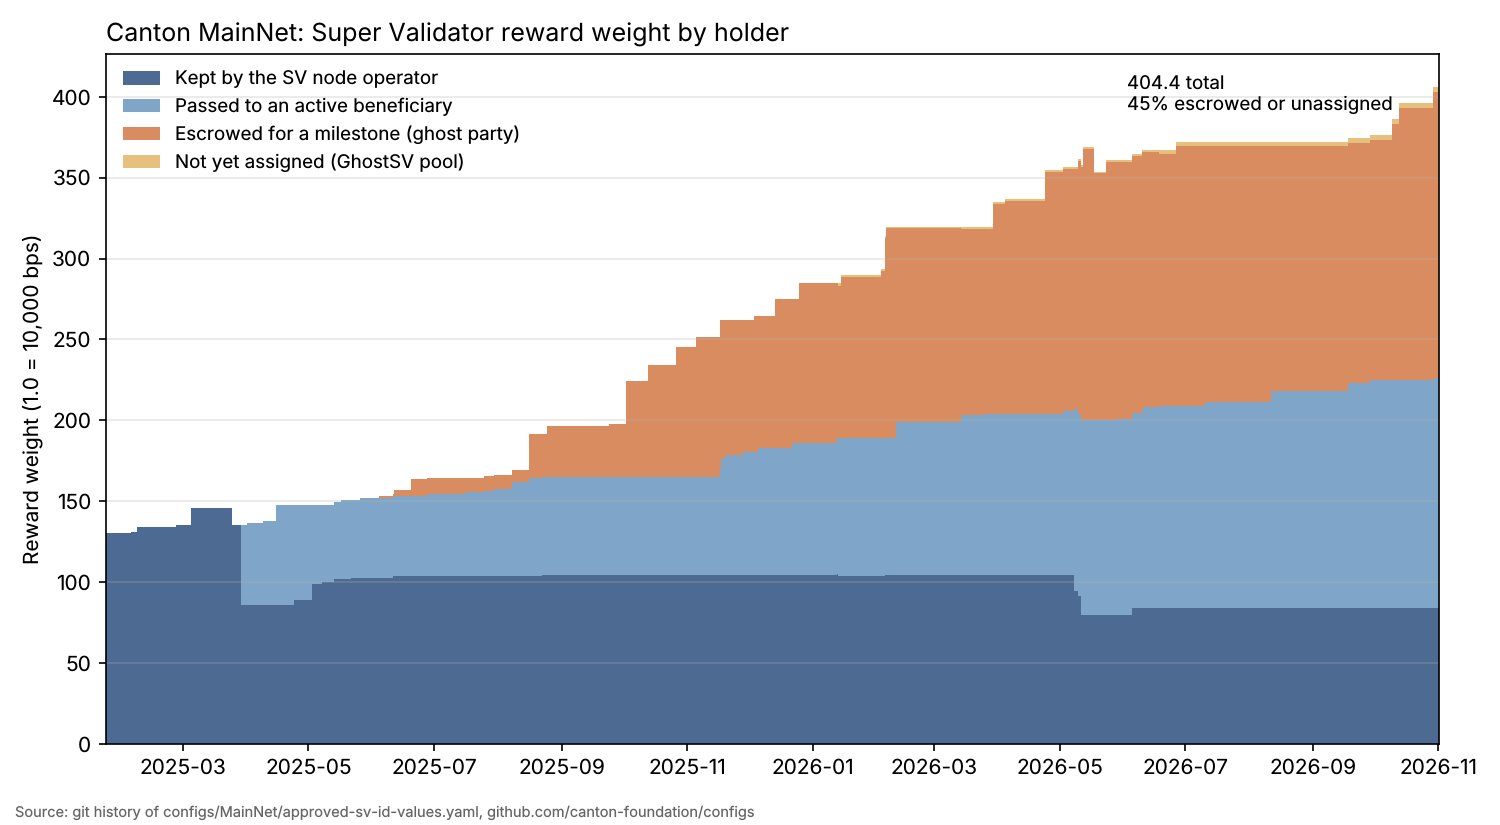
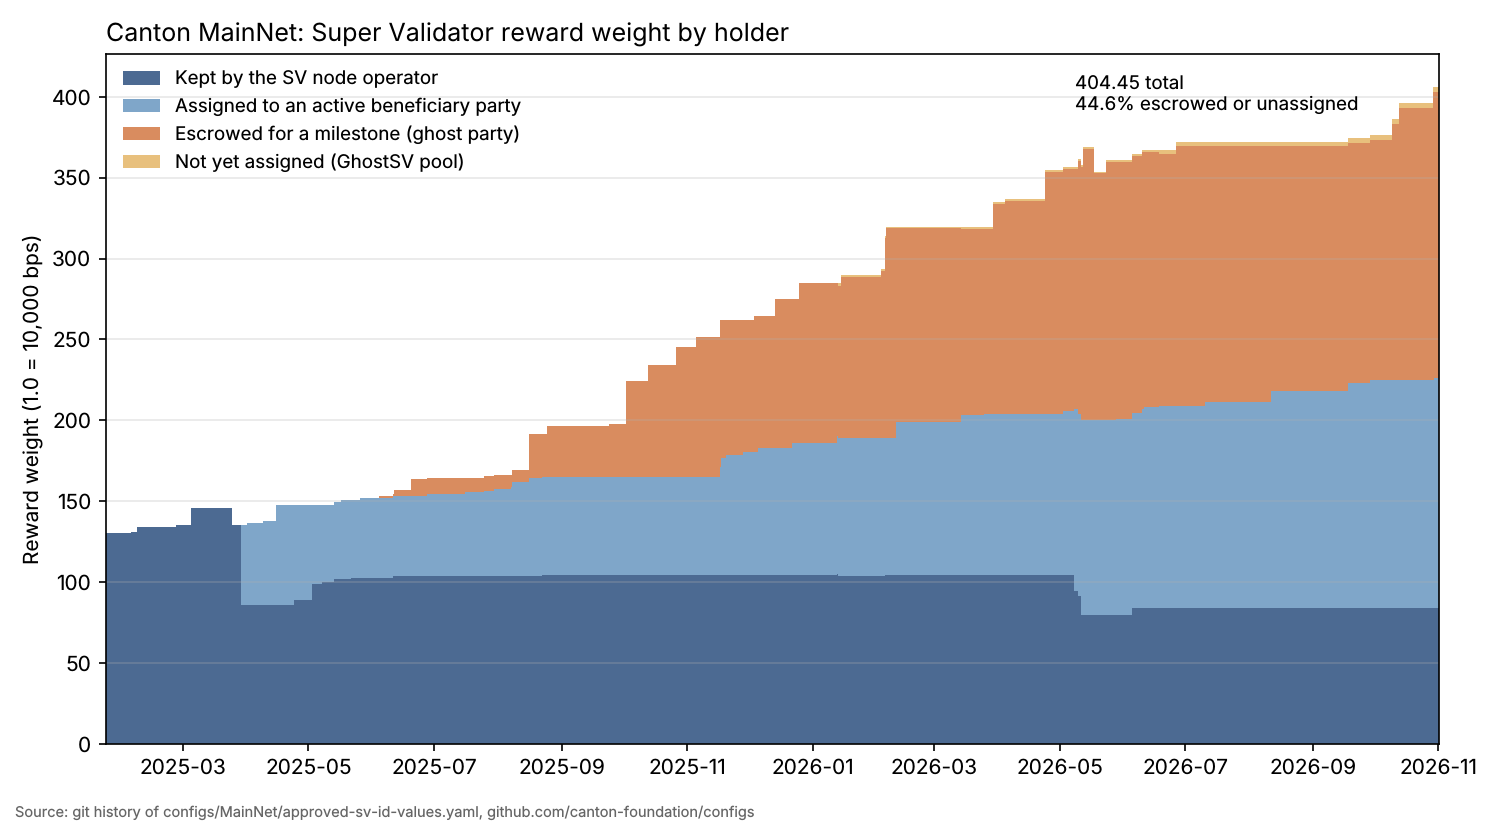
Describe active beneficiaries accurately and match figure labels to the text
Active beneficiary parties include operators' own staking and wallet
parties, not only other organisations. Show the total and the escrowed
share in Figure 1 with the precision the article uses.

Changed region(s): [[0.7053, 0.0909, 0.92, 0.1515], [0.1227, 0.1212, 0.3373, 0.1515]]

diff --git a/src/plot_weight_classes.py b/src/plot_weight_classes.py
@@ -17,7 +17,7 @@ ROOT = Path(__file__).resolve().parent.parent
 
 CLASSES = [
     ("node", "Kept by the SV node operator", "#4C6A92"),
-    ("active", "Passed to an active beneficiary", "#7FA6C9"),
+    ("active", "Assigned to an active beneficiary party", "#7FA6C9"),
     ("escrow", "Escrowed for a milestone (ghost party)", "#D98C5F"),
     ("unassigned", "Not yet assigned (GhostSV pool)", "#E8C07D"),
 ]
@@ -49,9 +49,9 @@ def main():
     last = rows[-1]
     ghost = float(last["escrow"]) + float(last["unassigned"])
     ax.annotate(
-        f"{float(last['total']):.1f} total\n{ghost / float(last['total']):.0%} escrowed or unassigned",
+        f"{float(last['total']):g} total\n{ghost / float(last['total']):.1%} escrowed or unassigned",
         xy=(dates[-1], float(last["total"])),
-        xytext=(-150, -10),
+        xytext=(-175, -10),
         textcoords="offset points",
         fontsize=9,
     )

diff --git a/article.md b/article.md
@@ -53,10 +53,12 @@ On 1 November 2026 the weight was split as follows:
 | Holder | Weight | Share |
 |---|---|---|
 | Kept by the 13 SV nodes (11 organisations) | 83.625 | 20.7% |
-| Passed to active beneficiaries | 140.605 | 34.8% |
+| Assigned to active beneficiary parties | 140.605 | 34.8% |
 | Escrowed on 32 ghost parties | 177.125 | 43.8% |
 | Unassigned pool (`GhostSV-validator-1`) | 3.095 | 0.8% |
 | Total | 404.45 | |
+
+Active beneficiary parties are mostly other organisations that have earned weight, but they also include operators' own staking and wallet parties: C7, Liberty City Ventures and Orb-1 route all of their weight this way.
 
 GSF hosts 97 of the escrowed weight on 20 parties, MPC Holding 53.125 on 7, and Five North 27 on 5. A vote effective on 12 November 2026 adds a further 8 to GSF for Paxos (CIP-0125), which is not yet in these figures. Escrow did not exist before 3 June 2025. It passed a third of all weight in November 2025 and has stayed between 31% and 45% since.
 
